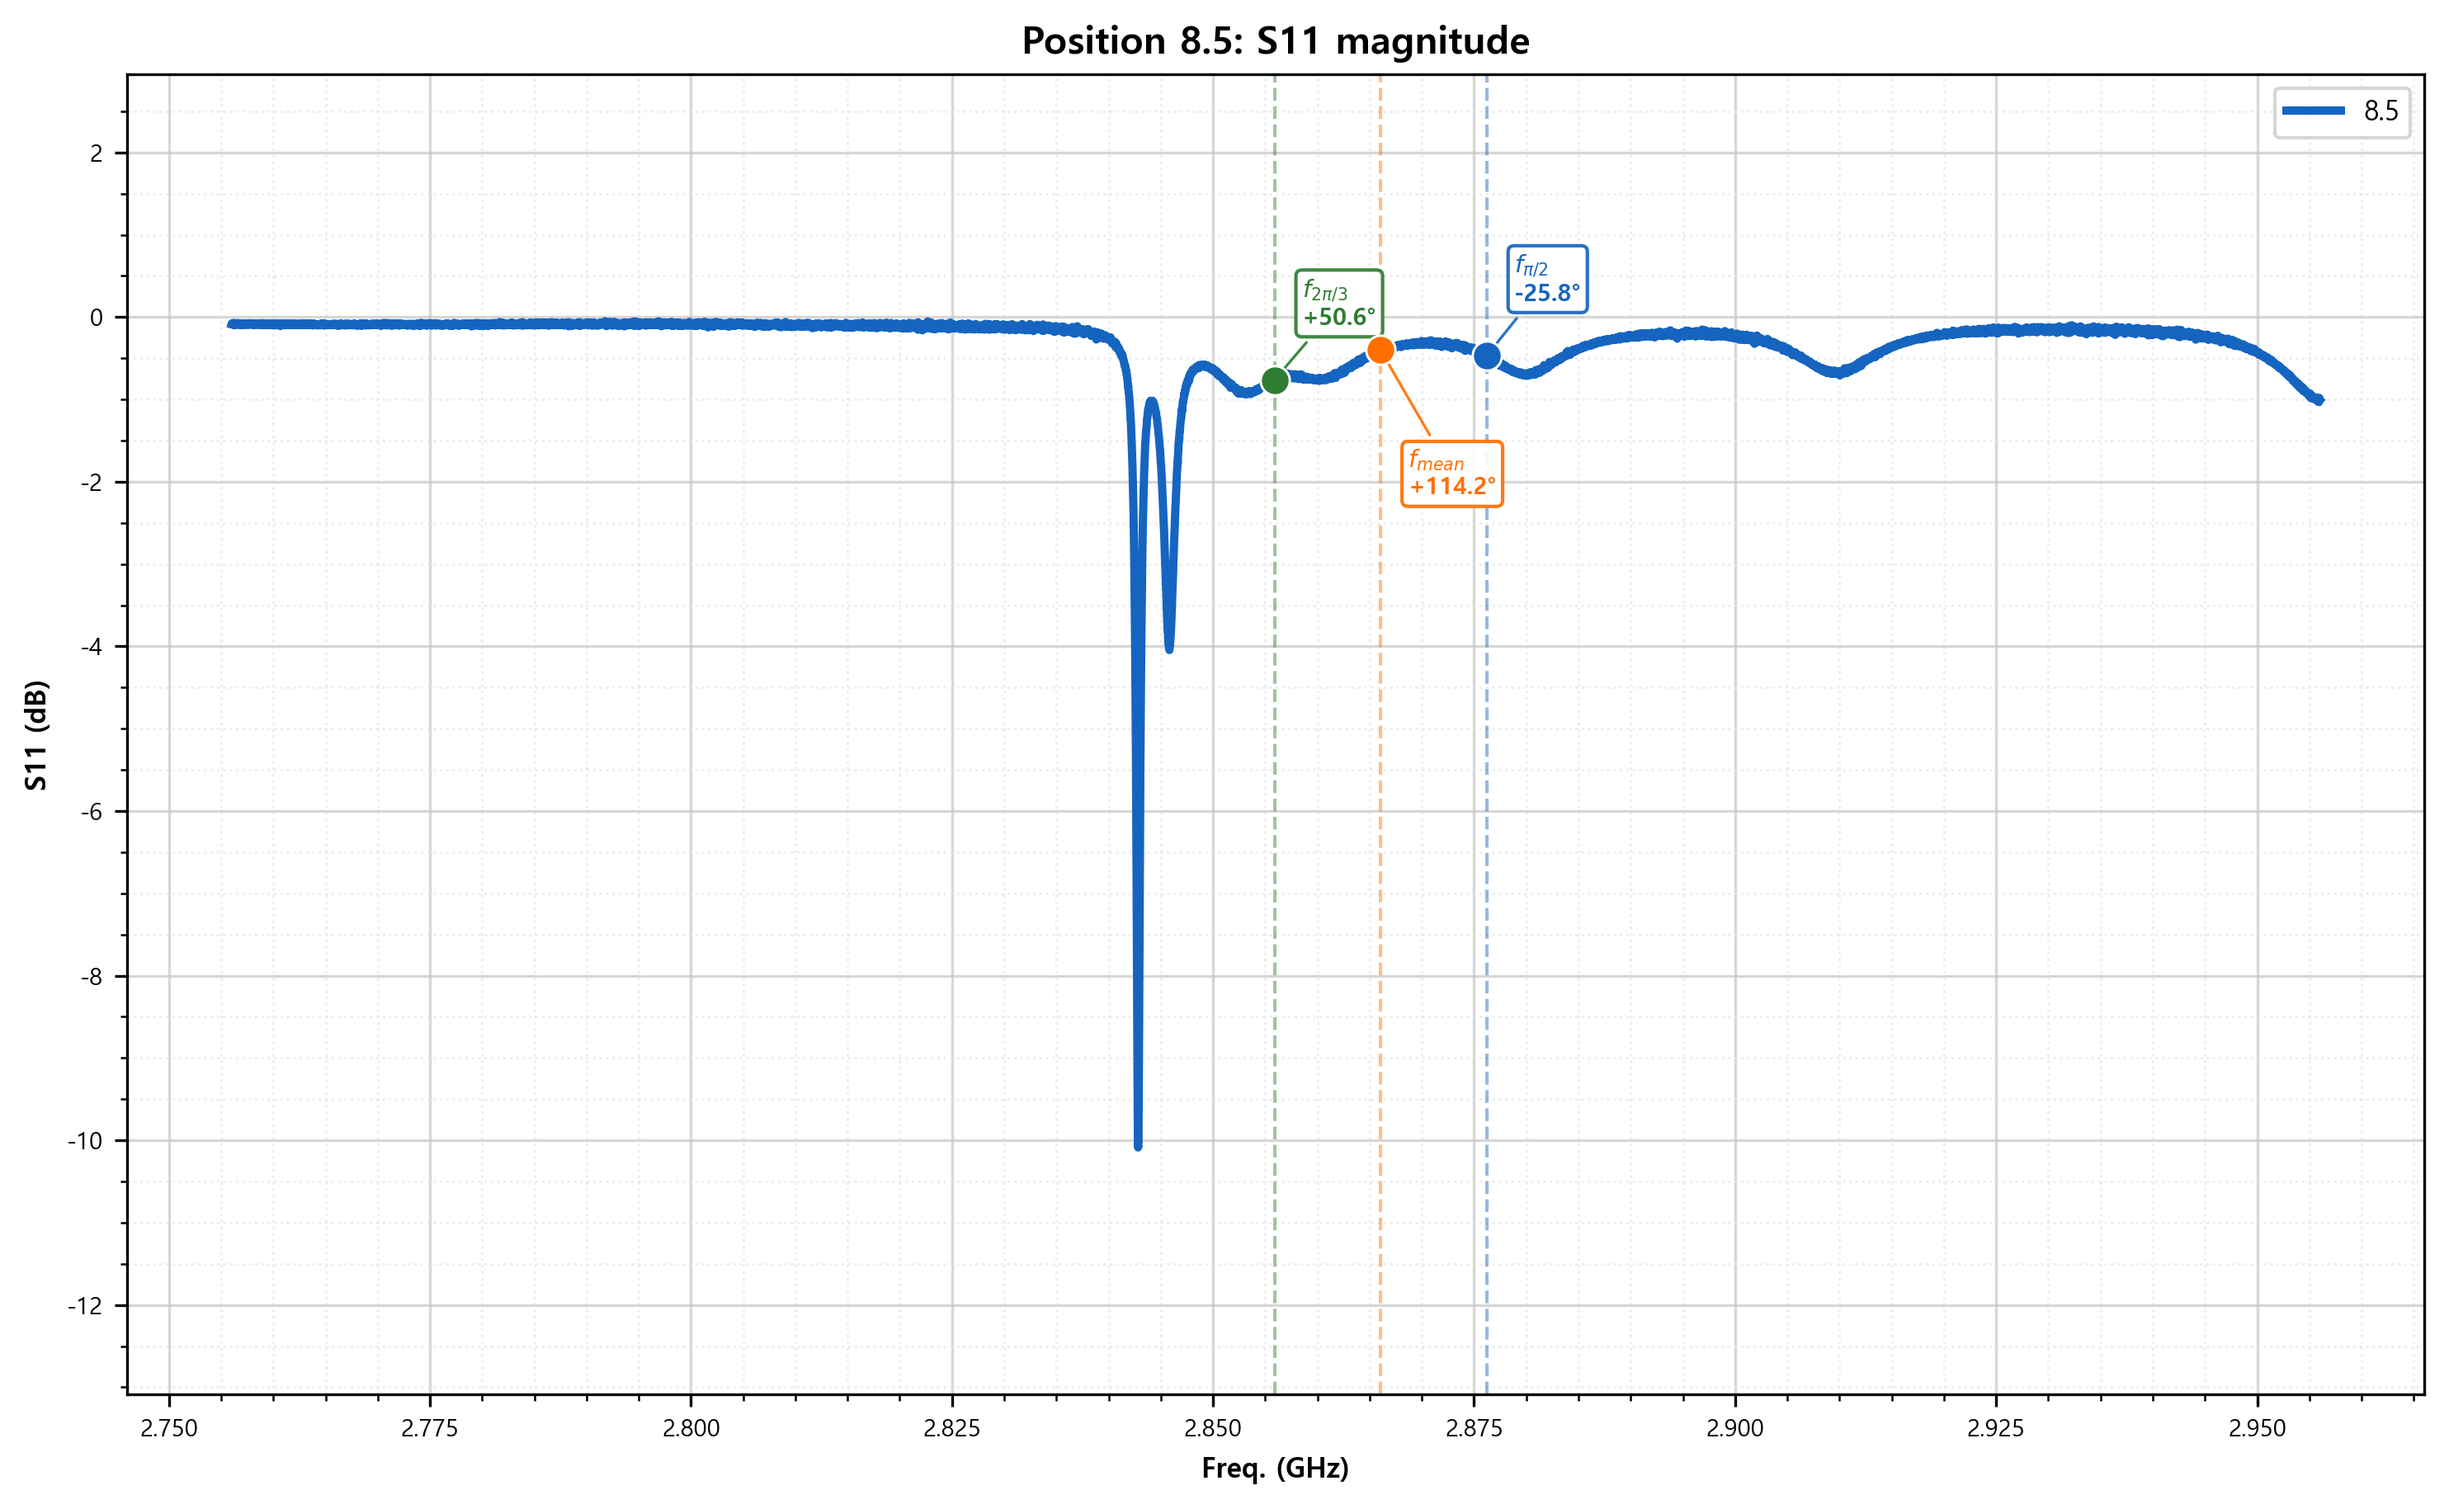
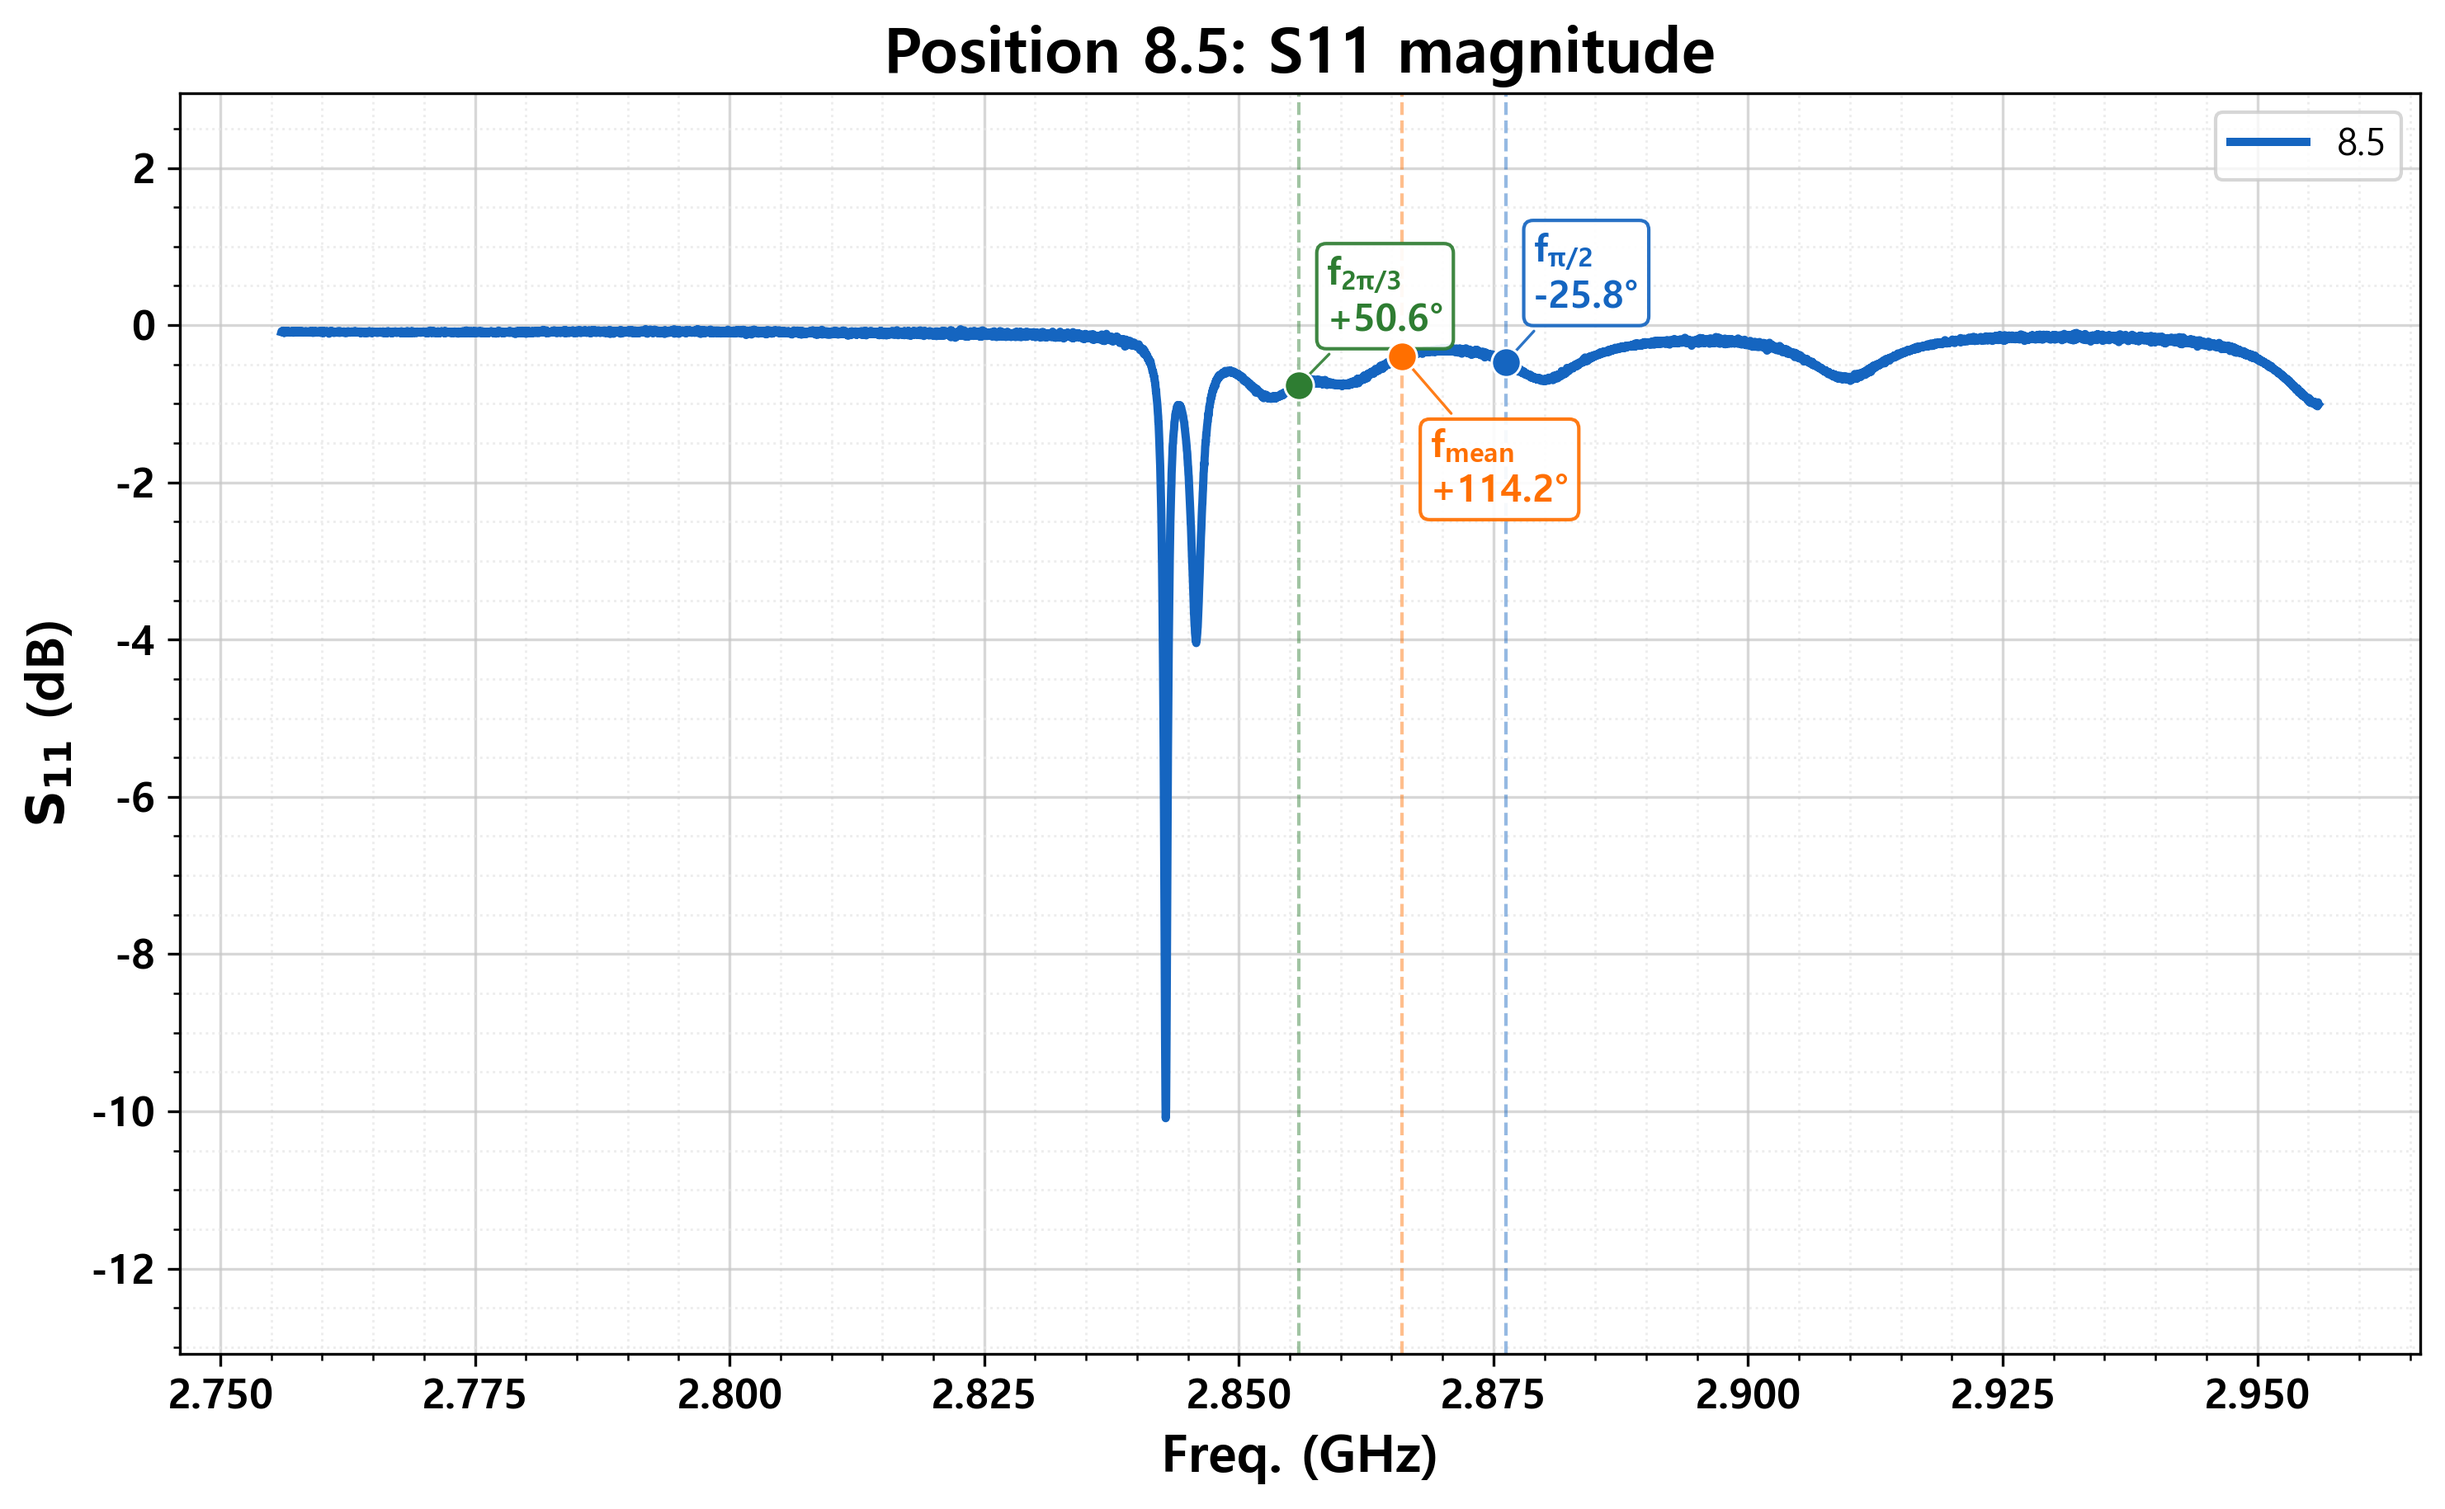
Improve shared plot typography

diff --git a/deflector_tuning/visualization/plot_config.py b/deflector_tuning/visualization/plot_config.py
@@ -2,6 +2,7 @@
 
 from __future__ import annotations
 
+import re
 from dataclasses import dataclass
 from pathlib import Path
 
@@ -13,17 +14,25 @@ class PlotConfig:
     """Shared plotting defaults for deflector-tuning visualizations."""
 
     dpi: int = 300
-    title_size: int = 11
-    compact_title_size: int = 8
-    label_size: int = 8
-    compact_label_size: int = 7
-    annotation_size: int = 7
-    compact_annotation_size: int = 6
-    line_width: float = 0.8
-    marker_size: int = 26
-    compact_marker_size: int = 18
-    figure_size: tuple[float, float] = (4.2, 4.2)
-    overview_panel_size: tuple[float, float] = (4.8, 4.4)
+    title_size: int = 18
+    compact_title_size: int = 13
+    label_size: int = 15
+    compact_label_size: int = 12
+    tick_size: int = 12
+    compact_tick_size: int = 11
+    annotation_size: int = 11
+    compact_annotation_size: int = 9
+    legend_size: int = 11
+    compact_legend_size: int = 10
+    label_weight: str = "bold"
+    tick_weight: str = "bold"
+    title_weight: str = "bold"
+    math_bold: bool = True
+    line_width: float = 1.8
+    marker_size: int = 52
+    compact_marker_size: int = 32
+    figure_size: tuple[float, float] = (5.6, 5.6)
+    overview_panel_size: tuple[float, float] = (5.8, 5.2)
     font_family: tuple[str, ...] = ("Pretendard", "Noto Sans", "Malgun Gothic", "DejaVu Sans")
 
 
@@ -36,9 +45,71 @@ def apply_plot_style(config: PlotConfig | None = None) -> None:
             "font.family": "sans-serif",
             "font.sans-serif": list(config.font_family),
             "axes.unicode_minus": False,
+            "axes.titlesize": config.title_size,
+            "axes.titleweight": config.title_weight,
+            "axes.labelsize": config.label_size,
+            "axes.labelweight": config.label_weight,
+            "xtick.labelsize": config.tick_size,
+            "ytick.labelsize": config.tick_size,
+            "legend.fontsize": config.legend_size,
+            "mathtext.default": "regular",
             "savefig.dpi": config.dpi,
         }
     )
+
+
+def math_label(expression: str, *, bold: bool = True) -> str:
+    """Return a mathtext label, optionally using bold-compatible math syntax."""
+
+    if expression.startswith("$") and expression.endswith("$"):
+        label = expression
+    else:
+        label = f"${expression}$"
+    return bold_math(label) if bold else label
+
+
+def bold_math(label: str) -> str:
+    r"""Best-effort bold mathtext conversion for simple project labels.
+
+    Matplotlib mathtext does not inherit ``fontweight='bold'`` into all math
+    glyphs. This helper converts common label forms such as ``$S_{11}$`` and
+    ``$f_{2\pi/3}$`` into explicit ``\mathbf{...}`` mathtext segments.
+    """
+
+    if not (label.startswith("$") and label.endswith("$")):
+        return label
+    body = label[1:-1]
+    body = body.replace(r"\pi", "§§")
+    body = re.sub(r"([A-Za-z])", r"\\mathbf{\1}", body)
+    body = re.sub(r"(\d+)", r"\\mathbf{\1}", body)
+    body = body.replace("§§", r"\mathbf{\pi}")
+    return f"${body}$"
+
+
+def apply_axis_text_style(
+    ax,
+    *,
+    xlabel: str | None = None,
+    ylabel: str | None = None,
+    title: str | None = None,
+    config: PlotConfig | None = None,
+    compact: bool = False,
+) -> None:
+    """Apply shared bold axis/title/tick styling."""
+
+    config = config or PlotConfig()
+    label_size = config.compact_label_size if compact else config.label_size
+    tick_size = config.compact_tick_size if compact else config.tick_size
+    title_size = config.compact_title_size if compact else config.title_size
+    if xlabel is not None:
+        ax.set_xlabel(_bold_label_if_math(xlabel, config), fontsize=label_size, fontweight=config.label_weight)
+    if ylabel is not None:
+        ax.set_ylabel(_bold_label_if_math(ylabel, config), fontsize=label_size, fontweight=config.label_weight)
+    if title is not None:
+        ax.set_title(_bold_label_if_math(title, config), fontsize=title_size, fontweight=config.title_weight)
+    ax.tick_params(axis="both", labelsize=tick_size)
+    for tick in [*ax.get_xticklabels(), *ax.get_yticklabels()]:
+        tick.set_fontweight(config.tick_weight)
 
 
 def save_figure(fig, output_path: str | Path, config: PlotConfig | None = None) -> Path:
@@ -50,3 +121,16 @@ def save_figure(fig, output_path: str | Path, config: PlotConfig | None = None) 
     path.parent.mkdir(parents=True, exist_ok=True)
     fig.savefig(path, dpi=config.dpi, bbox_inches="tight")
     return path
+
+
+def _bold_label_if_math(label: str, config: PlotConfig) -> str:
+    if config.math_bold and "$" in label:
+        return _bold_math_segments(label)
+    return label
+
+
+def _bold_math_segments(text: str) -> str:
+    parts = text.split("$")
+    for index in range(1, len(parts), 2):
+        parts[index] = bold_math(f"${parts[index]}$")[1:-1]
+    return "$".join(parts)

diff --git a/deflector_tuning/visualization/s11_frequency_plots.py b/deflector_tuning/visualization/s11_frequency_plots.py
@@ -11,7 +11,7 @@ matplotlib.use("Agg")
 import matplotlib.pyplot as plt
 import pandas as pd
 
-from deflector_tuning.visualization.plot_config import PlotConfig, apply_plot_style, save_figure
+from deflector_tuning.visualization.plot_config import PlotConfig, apply_axis_text_style, apply_plot_style, save_figure
 
 REQUIRED_SPARAMETER_COLUMNS: tuple[str, ...] = ("source_file", "tune_position", "freq_ghz", "s_db", "s_phase_deg")
 REQUIRED_MARKER_COLUMNS: tuple[str, ...] = (
@@ -129,14 +129,17 @@ def _plot_one(
             )
         ax.set_ylim(y_min, y_max)
 
-    ax.set_title(title, fontsize=config.title_size, fontweight="bold")
-    ax.set_xlabel("Freq. (GHz)", fontsize=config.label_size, fontweight="bold")
-    ax.set_ylabel(r"S11 (dB)", fontsize=config.label_size, fontweight="bold")
-    ax.tick_params(axis="both", labelsize=max(config.label_size - 1, 1))
+    apply_axis_text_style(
+        ax,
+        xlabel="Freq. (GHz)",
+        ylabel=r"$S_{11}$ (dB)",
+        title=title,
+        config=config,
+    )
     ax.grid(True, which="major", color="0.78", linewidth=0.8, alpha=0.7)
     ax.grid(True, which="minor", color="0.90", linestyle=":", linewidth=0.7, alpha=0.7)
     ax.minorticks_on()
-    ax.legend(frameon=True, loc="best", fontsize=config.label_size)
+    ax.legend(frameon=True, loc="best", fontsize=config.legend_size)
     fig.tight_layout()
     path = save_figure(fig, output_path, config)
     plt.close(fig)

diff --git a/deflector_tuning/visualization/phase_advance_plots.py b/deflector_tuning/visualization/phase_advance_plots.py
@@ -11,7 +11,7 @@ matplotlib.use("Agg")
 import matplotlib.pyplot as plt
 import pandas as pd
 
-from deflector_tuning.visualization.plot_config import PlotConfig, apply_plot_style, save_figure
+from deflector_tuning.visualization.plot_config import PlotConfig, apply_axis_text_style, apply_plot_style, save_figure
 
 REQUIRED_COLUMNS: tuple[str, ...] = (
     "marker_name",
@@ -180,14 +180,12 @@ def _plot_metric(
             )
 
     ax.axhline(reference_value, color="0.25", linestyle="--", linewidth=1.0, label=reference_label)
-    ax.set_title(title, fontsize=config.title_size, fontweight="bold")
-    ax.set_xlabel("Transition", fontsize=config.label_size, fontweight="bold")
-    ax.set_ylabel(ylabel, fontsize=config.label_size, fontweight="bold")
+    apply_axis_text_style(ax, xlabel="Transition", ylabel=ylabel, title=title, config=config)
     ax.set_xticks(range(len(labels)))
     ax.set_xticklabels(labels, rotation=45, ha="right")
-    ax.tick_params(axis="both", labelsize=max(config.label_size - 1, 1))
+    ax.tick_params(axis="x", labelrotation=45)
     ax.grid(True, axis="y", color="0.88", linewidth=0.8)
-    ax.legend(frameon=False, loc="best", fontsize=config.label_size)
+    ax.legend(frameon=False, loc="best", fontsize=config.legend_size)
     fig.tight_layout()
     path = save_figure(fig, output_path, config)
     plt.close(fig)

diff --git a/tests/test_plot_config.py b/tests/test_plot_config.py
@@ -1,0 +1,32 @@
+import matplotlib.pyplot as plt
+
+from deflector_tuning.visualization.plot_config import PlotConfig, apply_axis_text_style, bold_math, math_label
+
+
+def test_plot_config_defaults_use_larger_readable_typography() -> None:
+    config = PlotConfig()
+
+    assert config.title_size >= 18
+    assert config.label_size >= 15
+    assert config.tick_size >= 12
+    assert config.annotation_size >= 11
+    assert config.label_weight == "bold"
+    assert config.math_bold is True
+
+
+def test_bold_math_wraps_math_expressions_for_bold_labels() -> None:
+    assert bold_math(r"$S_{11}$") == r"$\mathbf{S}_{\mathbf{11}}$"
+    assert bold_math(r"$f_{2\pi/3}$") == r"$\mathbf{f}_{\mathbf{2}\mathbf{\pi}/\mathbf{3}}$"
+    assert math_label(r"S_{11}", bold=True) == r"$\mathbf{S}_{\mathbf{11}}$"
+
+
+def test_apply_axis_text_style_bolds_axis_labels_and_ticks() -> None:
+    fig, ax = plt.subplots()
+    apply_axis_text_style(ax, xlabel=r"$S_{11}$ (dB)", ylabel=r"Freq. (GHz)", config=PlotConfig())
+
+    assert ax.xaxis.label.get_fontweight() == "bold"
+    assert ax.yaxis.label.get_fontweight() == "bold"
+    assert ax.xaxis.label.get_fontsize() >= 15
+    for tick in ax.get_xticklabels():
+        assert tick.get_fontweight() == "bold"
+    plt.close(fig)
